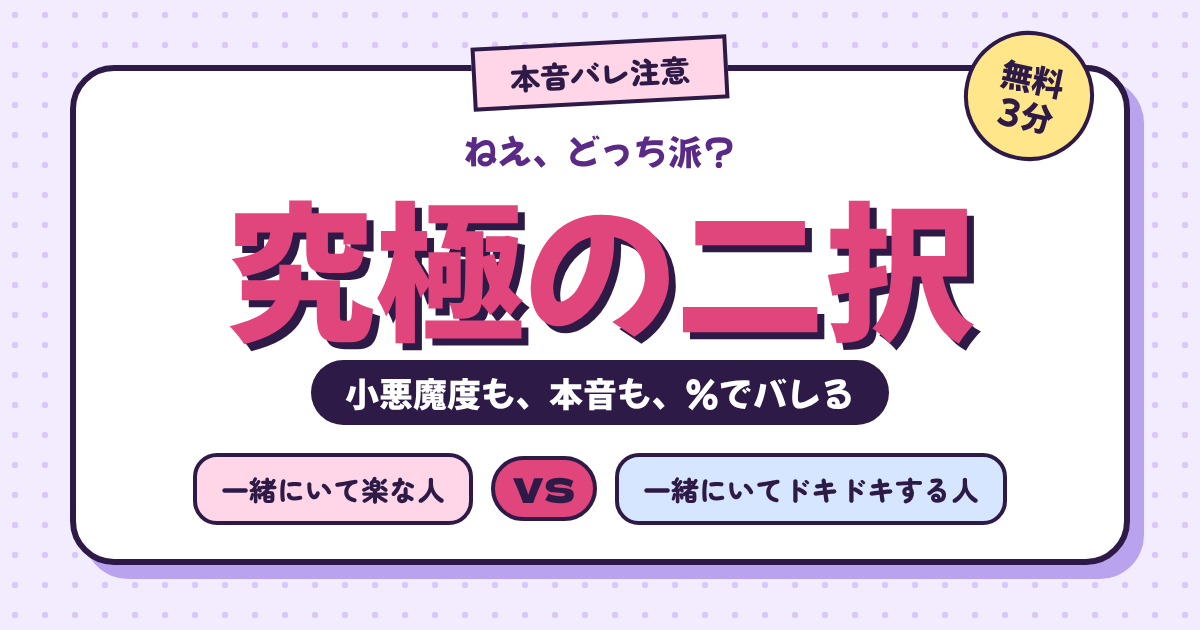
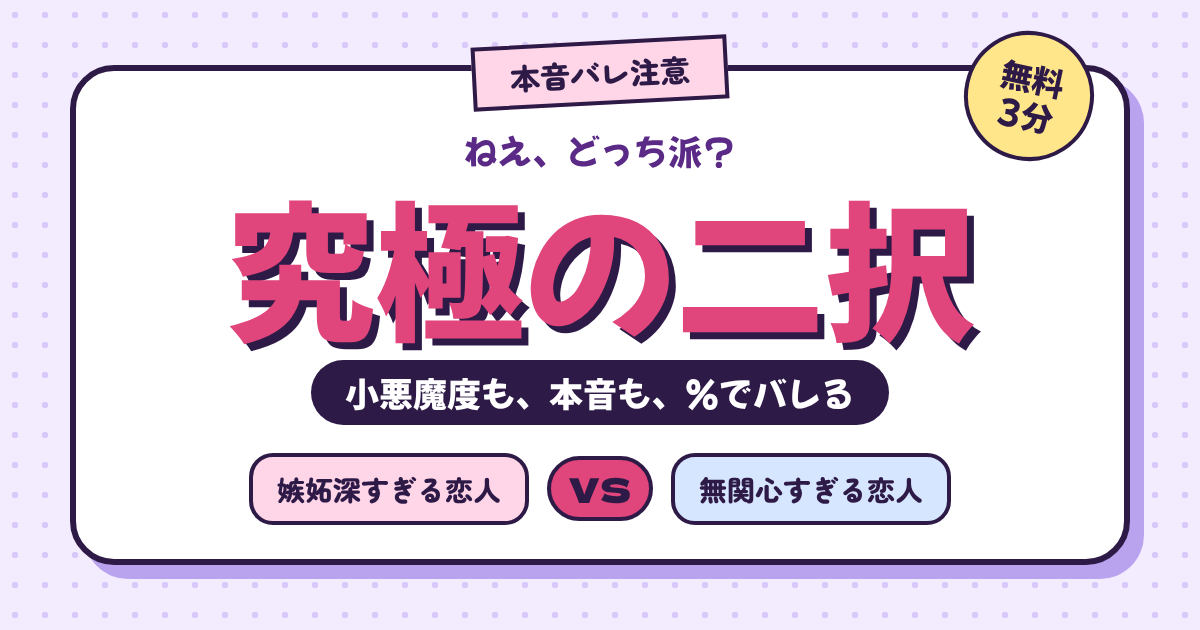
究極の二択：シェア画像の問題を「嫉妬深すぎる恋人／無関心すぎる恋人」に
Claude-Session: https://claude.ai/code/session_01VNhb2hkhfox6azdXRsnDTE

Changed region(s): [[0.1542, 0.6937, 0.8633, 0.8444]]

diff --git a/nitaku/index.html b/nitaku/index.html
@@ -6,7 +6,7 @@
 <title>究極の二択診断｜選ぶだけで本音がバレる（無料）</title>
 <meta name="description" content="恋愛編・ふつう編の究極の二択に答えるだけで、小悪魔度や心の中がちょっと見える無料の診断。みんなで遊べるモードつき。">
 <meta property="og:title" content="究極の二択診断｜選ぶだけで本音がバレる（無料）">
-<meta property="og:description" content="年収2000万の好きじゃない人 vs 貯金ゼロの大好きな人。あなたはどっち？ 小悪魔度がわかる無料診断。みんなで遊べるモードつき。">
+<meta property="og:description" content="嫉妬深すぎる恋人 vs 無関心すぎる恋人。あなたはどっち？ 小悪魔度がわかる無料診断。みんなで遊べるモードつき。">
 <meta property="og:type" content="website">
 <!-- シェアしたときの画像。サイトのアドレスが決まったら、https:// から始まる完全なアドレスに書きかえる（LINE・Xは完全なアドレスでないと画像を出さない） -->
 <meta property="og:image" content="og-image.png">

diff --git a/nitaku/og-image-src.html b/nitaku/og-image-src.html
@@ -18,7 +18,7 @@
 <div class="tape">本音バレ注意</div><div class="seal">無料<br>3分</div>
 <div class="hk">ねえ、どっち派？</div><div class="t">究極の二択</div>
 <div class="pill">小悪魔度も、本音も、％でバレる</div>
-<div class="row"><div class="ch a">一緒にいて楽な人</div><div class="vs">VS</div><div class="ch b">一緒にいてドキドキする人</div></div>
+<div class="row"><div class="ch a">嫉妬深すぎる恋人</div><div class="vs">VS</div><div class="ch b">無関心すぎる恋人</div></div>
 </div></div><script id="pk-contrast-guard">
 /* 文字の見えやすさの安全装置（tools/add_contrast_guard.py が3サイトの全ページに埋め込む。直すときはこのファイルを直して再実行）
    文字の色と、その後ろの背景の色を比べて、読みにくい組み合わせ（薄い背景に薄い文字／濃い背景に濃い文字）を見つけたら、

diff --git a/CLAUDE.md b/CLAUDE.md
@@ -61,7 +61,7 @@
 - **みんなの回答％**（鑑定者本人の指示 2026-11-01）：答えたあと、それぞれの答えの％と回答した人数を出す（ひとり＝答えのカードの上に1.5秒／みんなで＝結果発表の下／ひとりの結果に「多数派度」）。数えるのはサーバーの関数 `nitaku/functions/nitaku-vote.mjs`（Netlify Functions＋Netlify Blobs。`nitaku/netlify.toml`・`nitaku/package.json`）。数えるのは「どちらを選んだか」だけで、名前・生年月日は送らない。A/Bの左右は毎回入れかわるので、問題データの左側＝a・右側＝bに直して数える。確認用ページ（claude.ai）ではページのデータ保存（`ballots/<人>`・1人1票）で数える。どちらも使えないときは％を出さないだけ。
 - **結果は％で出す・タイプ名は出さない**（鑑定者本人の指示 2026-11-01「タイプ名は出さなくてもいいけど、何パーセントで出したい」）：恋愛編＝小悪魔度・ロマン度・刺激好き度・甘えたい度／ふつう編＝冒険度・欲ばり度・見栄っぱり度・ノリ度。いちばん上に小悪魔度（ふつう編は見栄っぱり度）を大きく、ほかの3つを小さく。％ごとのひとこと（35%未満／35〜64%／65%以上）は `AXC`。シェアの文も％だけ。点数は「それぞれの問題の2つの答えのまん中」を基準に数える（片方の答えにだけ点がある問題で、でたらめに答えても上に寄らないように。前は恋愛編の半分が同じ結果になっていた）。
 - **サイトのアイコン**（鑑定者本人の指示 2026-11-08）：ラベンダーの点々の地に白いカード、ピンクの「二択」（紫の影）とA・Bの丸（まっすぐ。傾けない＝鑑定者本人の指示 2026-11-08）。元は `nitaku/icon-src.html`（1024×1024）→ `icon-1024.png`・`icon-512.png`・`icon-192.png`・`apple-touch-icon.png`（180）・`favicon-32.png`。角まで絵で埋めた正方形。`manifest.webmanifest`・ホーム画面の名前「究極の二択」。
-- **シェアしたときの画像**：`nitaku/og-image.png`（1200×630・パステルの見た目。元は `nitaku/og-image-src.html`）。`og:image` は今は「og-image.png」だけなので、サイトのアドレスが決まったら https:// からの完全なアドレスに書きかえる（LINE・Xは完全なアドレスでないと画像を出さない）。
+- **シェアしたときの画像**：`nitaku/og-image.png`（1200×630・パステルの見た目。元は `nitaku/og-image-src.html`）。画像の問題は「嫉妬深すぎる恋人 VS 無関心すぎる恋人」（鑑定者本人の選択 2026-11-08「2」。リンクの紹介文 og:description も同じ問題）。作り直すときは見えやすさの安全装置を外して撮る（入ったままだとピンクの題名が濃く変わる）。`og:image` は今は「og-image.png」だけなので、サイトのアドレスが決まったら https:// からの完全なアドレスに書きかえる（LINE・Xは完全なアドレスでないと画像を出さない）。
 - **ほかのサイト・本の問題を写さない**（鑑定者本人の指示 2026-11-01「丸ぱくりはまずい」）：参考にするのは「形」（点数を入れかえる・付き合うなら／結婚するなら など）だけで、組み合わせや文は自分で作る。参考の画像に近すぎた31問は入れかえた。2026-11-07 に鑑定者本人が見せてくれたほかのサイトの問題（「少し言葉を変えて採用」）も、言葉の言いかえだけでは写しに近いので、テーマだけ借りて組み合わせを作り直した21問を足した。そのあと鑑定者本人の判断（「嫉妬すぎる・無関心みたいに、この短さだからいい」）で、よくある短い二択の形（例：嫉妬深すぎる恋人／無関心すぎる恋人）をこちらの言葉で書いた21問に入れかえた。1つのサイトの文・並びをまとめて写すことはしない。続けて鑑定者本人が見せてくれた二択から8問を同じやり方で足した（キスは不意打ち／目が合って・デート代・スマホを見せて／隠される・体／心の浮気・婚約破棄・食費／家賃が一生タダ・美人／お金持ち・今すぐ100万／10年後1000万。年収2000万／大好きな人、束縛／無関心は今ある問題と同じなので足さない）。恋愛編145問・ふつう編129問。2026-11-07 に全問をユーザーの目で読み直し、たとえばの一文のずれ6つ・わかりにくい答え5つ・片方が明らかに良い問題1つを直し、中身が同じ問題3つ（おうち／おでかけデートの2つ目・毎日「今なにしてる？」／3日連絡なし・おごり恩着せがましい／割り勘）を外した＝恋愛編142問・ふつう編129問。今ある問題と同じテーマ（毎日会う／週末、割り勘、海外1回／国内5回、都会／田舎、記念日／日常、浮気）は足さなかった。
 - 見た目はパステル・ステッカー（鑑定者本人が5案をまぜて選んだ形 2026-11-01）：ラベンダーの点々の地・濃い紫の太い線・ずらした影、題名「究極の二択」はピンク（#E0457B）に紫の影、「本音バレ注意」のテープ・「無料3分」のシール、言葉のちらし（82%のメーターは出さない・題名はまん中＝鑑定者本人の指示 2026-11-01）、答えはパステル（恋愛＝ピンク・水色／ふつう＝黄・ミント）に濃い紫の文字。色はこの組み合わせからはずさない。デザイン案 https://claude.ai/artifact/MbqdfjgiFiKUbRZMuBQaG6
 
